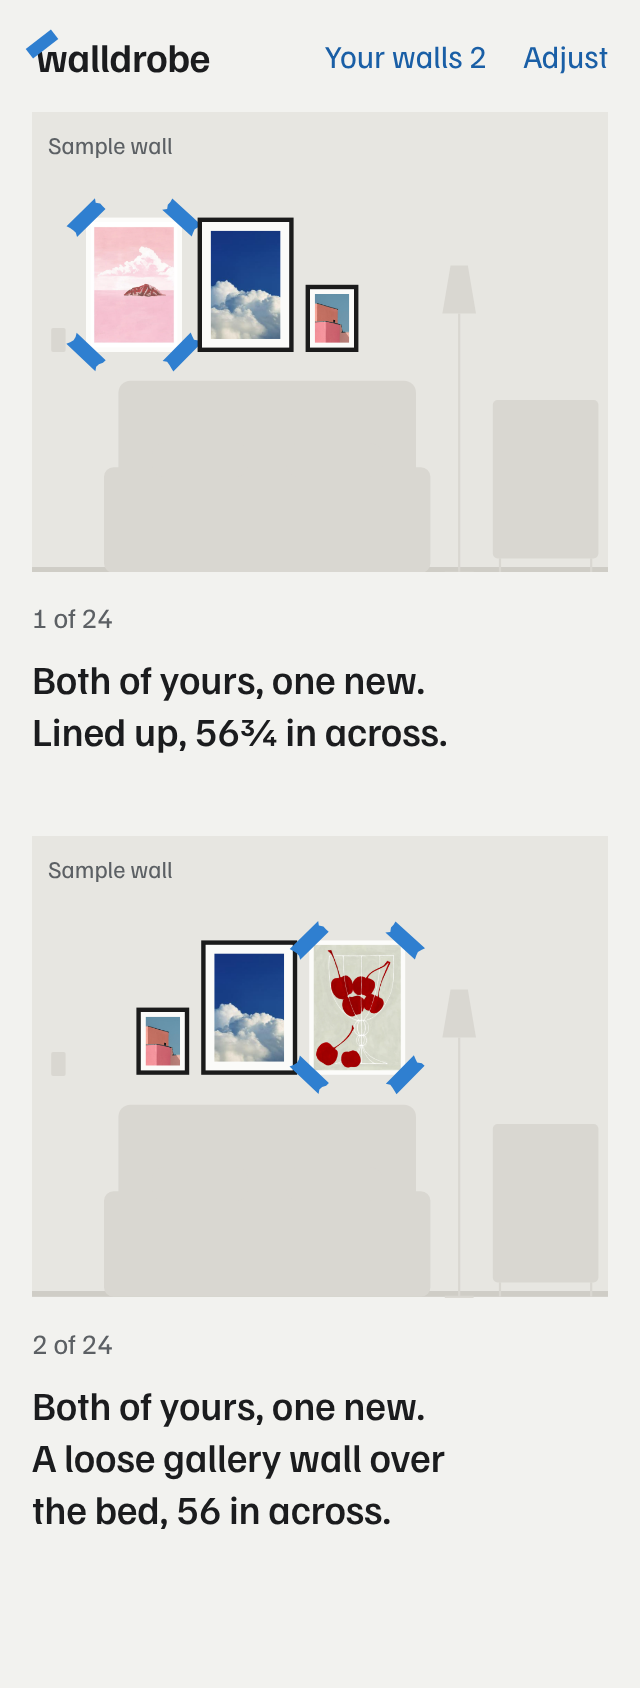
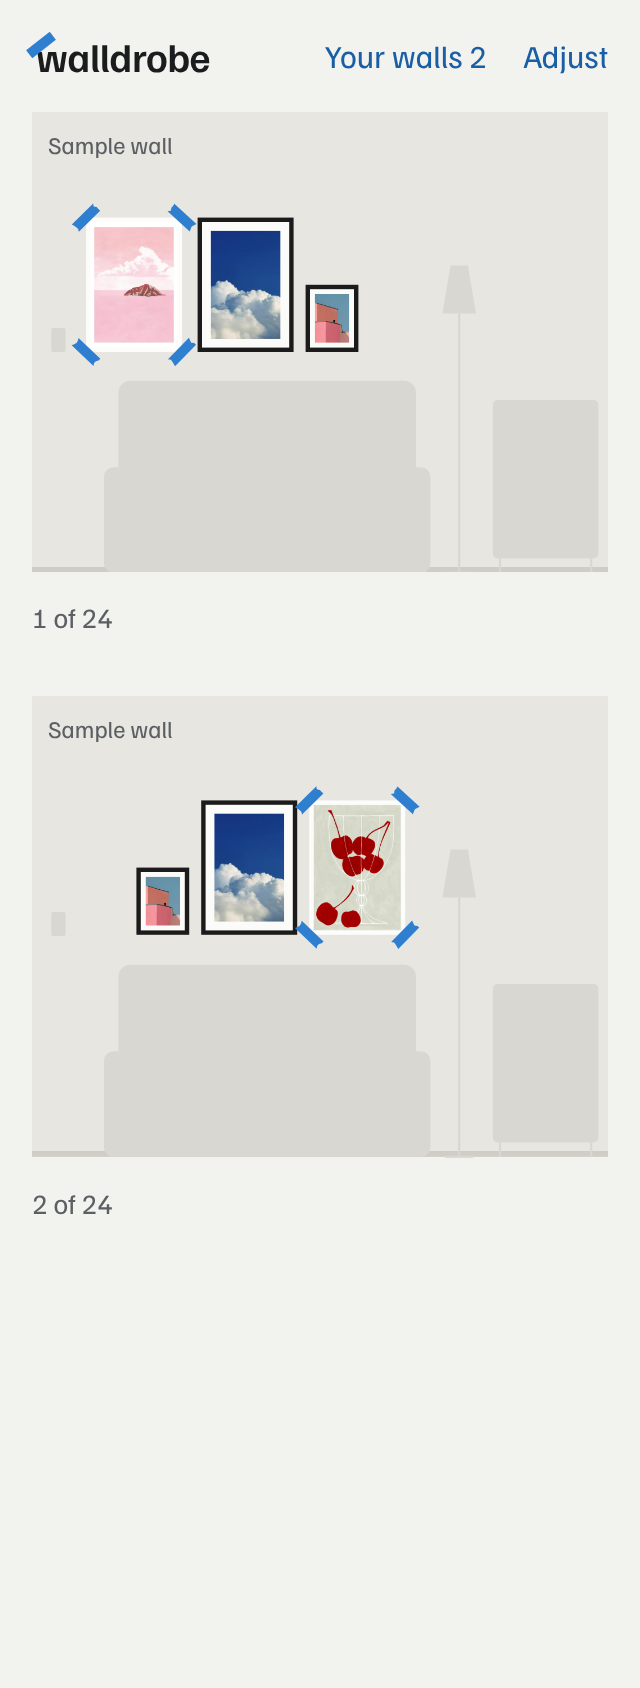
v4 step 4: Taped up picked; tape at true width; no why or reason lines; references redone; FEEDBACK 74
Claude-Session: https://claude.ai/code/session_01VoA4So5M9yfUtFu9HVj1Qd

diff --git a/design/directions/build.py b/design/directions/build.py
@@ -102,7 +102,7 @@ def draw_tape(wall, px_per_in, seed=3):
     rnd = random.Random(seed)
     s = [f'<rect width="{WW}" height="{WH}" fill="var(--wall)"/>',
          f'<rect y="{WH - 1.2}" width="{WW}" height="1.2" fill="var(--floor)"/>', furn_flat()]
-    tabL, tabT = 20 / px_per_in, 7.5 / px_per_in  # fixed on-screen size so tape reads at any scale
+    tabT = max(1.41, 5 / px_per_in); tabL = max(3.2, 15 / px_per_in)  # the real roll's width, never under 5 px on screen
     for i, p in enumerate(wall['pieces']):
         x, y, w, h = p['x'], top(p), p['w'], p['h']
         if p['own']:
@@ -209,7 +209,7 @@ body{font-family:%(family)s;color:var(--ink);-webkit-font-smoothing:antialiased;
 .count{color:var(--pencil);font-size:14px;font-variant-numeric:tabular-nums}
 .why{font-size:20px;line-height:26px;font-weight:500;margin:6px 16px 4px;text-wrap:balance;letter-spacing:-0.005em}
 .cost{color:var(--pencil);font-size:14px;margin:0 16px;font-variant-numeric:tabular-nums}
-.feed .item{margin-bottom:40px}
+.feed .item{margin-bottom:28px}
 .feed .count{margin:12px 16px 0}
 .pager{display:flex;align-items:center;margin:4px 8px 0 8px}
 .pager .nav{width:44px;height:44px;border:0;background:none;color:var(--ink);font-size:22px}
@@ -237,9 +237,9 @@ ul.rows{list-style:none;margin:16px 0 0;padding:0 16px;border-top:1px solid var(
 """
 
 EXTRA = {
- 'd1': """.wm{position:relative;padding-left:2px}.tab{position:absolute;left:-3px;top:2px;width:16px;height:6px;background:var(--tape-strip);transform:rotate(-38deg)}
+ 'd1': """.wm{position:relative;padding-left:2px}.tab{position:absolute;left:-3px;top:3px;width:15px;height:5px;background:var(--tape-strip);transform:rotate(-38deg)}
 .thumbnew{position:relative;background:var(--paper);padding:2px;box-shadow:0 0 0 1px var(--hairline)}
-.thumbnew::before,.thumbnew::after{content:"";position:absolute;top:-3px;width:14px;height:6px;background:var(--tape-strip)}
+.thumbnew::before,.thumbnew::after{content:"";position:absolute;top:-2px;width:12px;height:4px;background:var(--tape-strip)}
 .thumbnew::before{left:-5px;transform:rotate(-40deg)}.thumbnew::after{right:-5px;transform:rotate(40deg)}
 .thumbnew.k::before,.thumbnew.k::after{background:var(--tape-keep)}
 .thumbown{padding:4px;background:var(--mat);box-shadow:0 0 0 2px var(--frame)}""",
@@ -282,8 +282,8 @@ def feed(dkey, width):
         return f'{money(sum(p["price"] for p in new))} for {len(new)} new print{"s" if len(new) > 1 else ""}'
     body = (f'<header class="bar">{DIRS[dkey]["word"]}<span class="r"><a href="#">Your walls 2</a><button>Adjust</button></span></header>'
             f'<main class="feed"><div class="item"><div class="draw">{svg(dkey, w1, ppi)}</div>'
-            f'<p class="count">1 of 24</p><h2 class="why">{esc(w1["why"])}</h2></div>'
-            f'<div class="item"><div class="draw">{svg(dkey, w2, ppi)}</div><p class="count">2 of 24</p><h2 class="why">{esc(w2["why"])}</h2></div></main>')
+            f'<p class="count">1 of 24</p></div>'
+            f'<div class="item"><div class="draw">{svg(dkey, w2, ppi)}</div><p class="count">2 of 24</p></div></main>')
     return page(dkey, body)
 
 def wallpage(dkey, width):
@@ -296,16 +296,16 @@ def wallpage(dkey, width):
     rows = ''.join(
         f'<li class="row"><span class="t">{thumb(p, dkey)}</span><span class="txt"><span class="name">{esc(p["title"])}</span>'
         f'<span class="meta">{inch(p["w"])} x {inch(p["h"])} in, at {esc(p["shop"])}{" <span class=kept>Kept</span>" if p.get("kept") else ""}</span>'
-        + (f'<span class="reason">{esc(reasons[p["title"]])}</span>' if p['title'] in reasons else '') +
+        +
         f'</span><button class="heart" aria-label="Favorite">{HEART}</button></li>' for p in new)
     yours = ''.join(thumb(p, dkey) for p in own)
     body = (f'<header class="bar"><a class="back" href="#">‹ All walls</a><span class="r"><a href="#">Your walls 2</a><button>Adjust</button></span></header>'
             f'<main><div class="draw">{svg(dkey, w, ppi)}</div>'
             f'<div class="pager"><button class="nav" aria-label="Wall before">‹</button><span class="count">3 of 24</span><button class="nav" aria-label="Next wall">›</button>'
             f'<span class="acts"><button class="small">Save</button><button class="small primary">Get</button></span></div>'
-            f'<p class="undo">Swapped Swedish Cafe for Still Life with Gumball Machine.<button>Undo</button></p>'
-            f'<h1 class="why">{esc(w["why"])}</h1>'
-            f'<div class="yours"><span class="lab">Yours</span>{yours}</div><p class="note">Not up yet: the nails for both are on Get.</p>'
+            f'<p class="undo">Swapped.<button>Undo</button></p>'
+            f''
+            f'<div class="yours"><span class="lab">Yours</span>{yours}</div>'
             f'<ul class="rows">{rows}</ul></main>')
     return page(dkey, body)
 

diff --git a/FEEDBACK.md b/FEEDBACK.md
@@ -100,4 +100,5 @@ Status: Live (on the real link), v3 (on branch v3, not live), To do, Reversed (a
 | 70 | "The legend below feels very ai sloppy." (the "Tape: blue is new, green is kept in every wall." line on the reference) | Legend removed from the v4 references and the rules (DESIGN.md, STATES.md). Green is explained where it happens: the Undo line when you keep a piece, and "Kept in every wall" on its row and sheet. | Jason | It repeated the rows with a line of swatches; one signal per state is enough. | Decided |
 | 71 | "I feel like the website is still giving ai slop... did you not review what i sent??" | Fresh-context review of the v4 references against the playbook: the tape is about 5 px at 390, so it reads as a selection border; your pieces are flat color blocks; the furniture is the same clip art on every wall; one state gets three signals; filler reason lines; rows in a white rounded card; a stock header and stock icons. Only the words and the logic are owned. Step 4 reopened: the a63c921 direction was kept without checking that the tape reads at phone size (HANDOFF had flagged it). | Jason; Claude (the miss) | The review scored Identity on intent, not on what a phone actually shows. | Open |
 | 72 | "Lets hide the prices for now because i'm going to change that... its gonna be cheaper in the end." | Prices hidden in v4: no cost line under the why line, no price on piece rows. The buy link still opens the shop. Conflicts with PRODUCT.md "Facts that change the decision" (what the new pieces cost), noted there as hidden for now. | Jason | Pricing will change and come down. | Decided |
-| 73 | "Conceptually i like it but it's still giving ai slop not unique creative brand design. It does need to be somewhat vanilla but still." | Three visual directions mocked on the real bedroom walls with real art (design/directions): Taped up, Hanging plan, Finished wall. Each has one owned signature at a size that reads on a phone; everything else stays plain. In all three: real images for your pieces, plain furniture, rows without a card, one signal per state, no filler reasons. | Jason; Claude | One owned element, plain everywhere else. | Open, waiting on Jason |
+| 73 | "Conceptually i like it but it's still giving ai slop not unique creative brand design. It does need to be somewhat vanilla but still." | Three visual directions mocked on the real bedroom walls with real art (design/directions): Taped up, Hanging plan, Finished wall. Each has one owned signature at a size that reads on a phone; everything else stays plain. In all three: real images for your pieces, plain furniture, rows without a card, one signal per state, no filler reasons. | Jason; Claude | One owned element, plain everywhere else. | Decided: Taped up (row 74) |
+| 74 | "I think its good... i like the sideways tape especially on the logo that's really good... make sure its the right width not too wide... the words are kind of overkill... im picking based on the view not anything you say... waste of space." | Taped up picked. Tabs set to the real roll's width (1.41 in, at least 5 px; were 7.5 px) and about 3.2 in long; the wordmark tab to match (15 x 5 px). Why lines, reason lines and the nail note removed from the screens; Undo shortened to "Swapped. Undo". References in design/references/v4-* redone. Reverses the why line from row 2. | Jason | Walls are judged by eye; text under them took space and added nothing he uses. | Decided; references waiting on OK |

diff --git a/DESIGN.md b/DESIGN.md
@@ -1,10 +1,23 @@
 # DESIGN.md
 
-Status: v4, 2026-10-02 evening: the painter's tape direction is kept unchanged from a63c921 (the review gave no reason to change it); the v4 reference screens below are proposed, waiting on Jason's OK. v2 direction picked on 2026-10-01 (DECISIONS, "v2 step 4"): painter's tape. The structure is the feed (DECISIONS, "v2 step 3"). Tokens live on `:root` in the v2 stylesheet and nowhere else. The reference screens in `design/references/` are what new work is compared against, not memory.
+Status: v4, 2026-10-02 evening: direction "Taped up" picked (DECISIONS, v4 step 4; mocks in design/directions). New prints hang unframed with torn tape tabs at the corners, yours hang framed. The references in design/references/v4-* are what new work is compared against. Older sections below still describe the v2 frames-of-tape drawing where they differ; the v4 rules here win.
 
 ## What the design is for
 
 The wall is the hero. People are judging art, and art needs neutral surroundings, so the interface stays quiet and the pieces carry the color. The one thing Walldrobe does that nothing else does is show you your wall finished, at true scale, before you buy or drill. Everything on screen serves that picture.
+
+## v4: Taped up (2026-10-02)
+
+- New prints are drawn as paper, unframed, with a thin white edge, held by torn tape tabs across the corners: two at the top, two more at the bottom on anything taller than 20 in. Blue `--tape-strip` while proposed, green `--tape-keep` once kept. Pieces of yours are framed (frame and mat), never taped.
+- Tab size: the real roll's width, 1.41 in at wall scale, never under 5 px on screen; about 3.2 in long, never under 15 px. Each tab sits at about 42 degrees with a few degrees of random lean, torn at both ends. Not wider: at 7.5 px it read as clip art (FEEDBACK 74).
+- The wordmark is "walldrobe" in lowercase Familjen Grotesk 600 with one blue tab across the top left of the w, 15 x 5 px, the same proportion as on the wall.
+- Furniture is flat silhouettes one step darker than the wall, no outlines, no pillows or seams worth looking at. The art carries the color.
+- Type: Familjen Grotesk 400, 500, 600 (replaces Switzer). Action color `#1A5FA6`.
+- Words: no why line, no reason line on rows, no move note on the wall screen. A wall is judged by looking at it (FEEDBACK 74). The count ("1 of 24") stays small under each drawing. The Undo line is "Swapped. Undo", "Kept. Undo", "Removed. Undo". Rows are the title, then size and shop, then "Kept" when kept.
+- Save and Get are two small buttons in the pager row, Save quiet and Get filled, 36 px tall inside a 44 px row.
+- Rows sit on the page with hairlines between them, no card.
+- Thumbnails repeat the drawing's code: new pieces as taped paper, yours framed.
+- No legend (FEEDBACK 70). No prices for now (FEEDBACK 72).
 
 ## The direction and its source
 

diff --git a/DECISIONS.md b/DECISIONS.md
@@ -172,6 +172,8 @@ One line per call: date, decision, and why. Newest at the bottom. Change a decis
 - 2026-10-02 (v4 step 3): Structure A, the Oct 1 build extended: the feed to choose a layout, the open wall to curate, Your walls to compare. With three rules from Astra's review of the options: previous and next keep each wall's edits for when you come back; Your walls is one tap from the open wall (its spare, shown once a wall is saved); Save adds a copy, and later edits never change a saved wall. Jason: "A sounds good if that's what i liked yesterday." Rejected: B, saving walls from the feed into a strip (collecting before refining, and controls above the first wall again); C, your wall with the list under it (browsing starts below the wall, and a tap down the page changes what is above you). Reopen if: in the first build round, coming back to a wall after trying another loses or hides the edits.
 - 2026-10-02 (v4 step 4): No tape legend under the wall. Green and orange are explained where they happen: the Undo line when a piece is kept, and "Kept in every wall" or "Stays where it hangs" on the piece's row and sheet. Jason: "the legend below feels very ai sloppy." It repeated what the rows already said, with colored swatches, which the playbook lists as a generated tell (repeated facts, four signals for one state). Replaces the 2026-10-01 rule (v2 step 4b) that put the line under any wall with green or orange. Reopen if: on a phone, people can't tell why a piece has green tape.
 - 2026-10-02: Prices hidden in v4: no cost line, no price on rows or sheets; the shop link stays. Jason: "lets hide the prices for now because i'm going to change that... its gonna be cheaper in the end." Reopen when: the new pricing is set.
+- 2026-10-02 (v4 step 4): Direction "Taped up", from three mocked on the real bedroom walls (Taped up, Hanging plan, Finished wall). New prints unframed with torn tape tabs at true width (1.41 in, at least 5 px on screen), yours framed; the same tab on the wordmark; flat furniture; Familjen Grotesk. Jason: "i like the sideways tape especially on the logo... make sure its the right width not too wide." Rejected: Hanging plan (reads as a tool), Finished wall (no way to see what is new on the drawing, closest to a generic interiors look). Reopen if: tabs read as clip art on a real phone.
+- 2026-10-02 (v4 step 4): No why line under the walls, no reason lines on rows, no move note on the wall screen; walls are chosen by looking. Jason: "the words are kind of overkill... im picking based on the view not anything you say... waste of space." This reverses the why line from the v2 reset (FEEDBACK 2, "ranked best to worst and why") and DESIGN.md's rule that it is the biggest text. The reasons stay in the engine for ranking. Reopen if: people can't tell two walls apart or ask why one ranks first.
 
 
 ## Design
